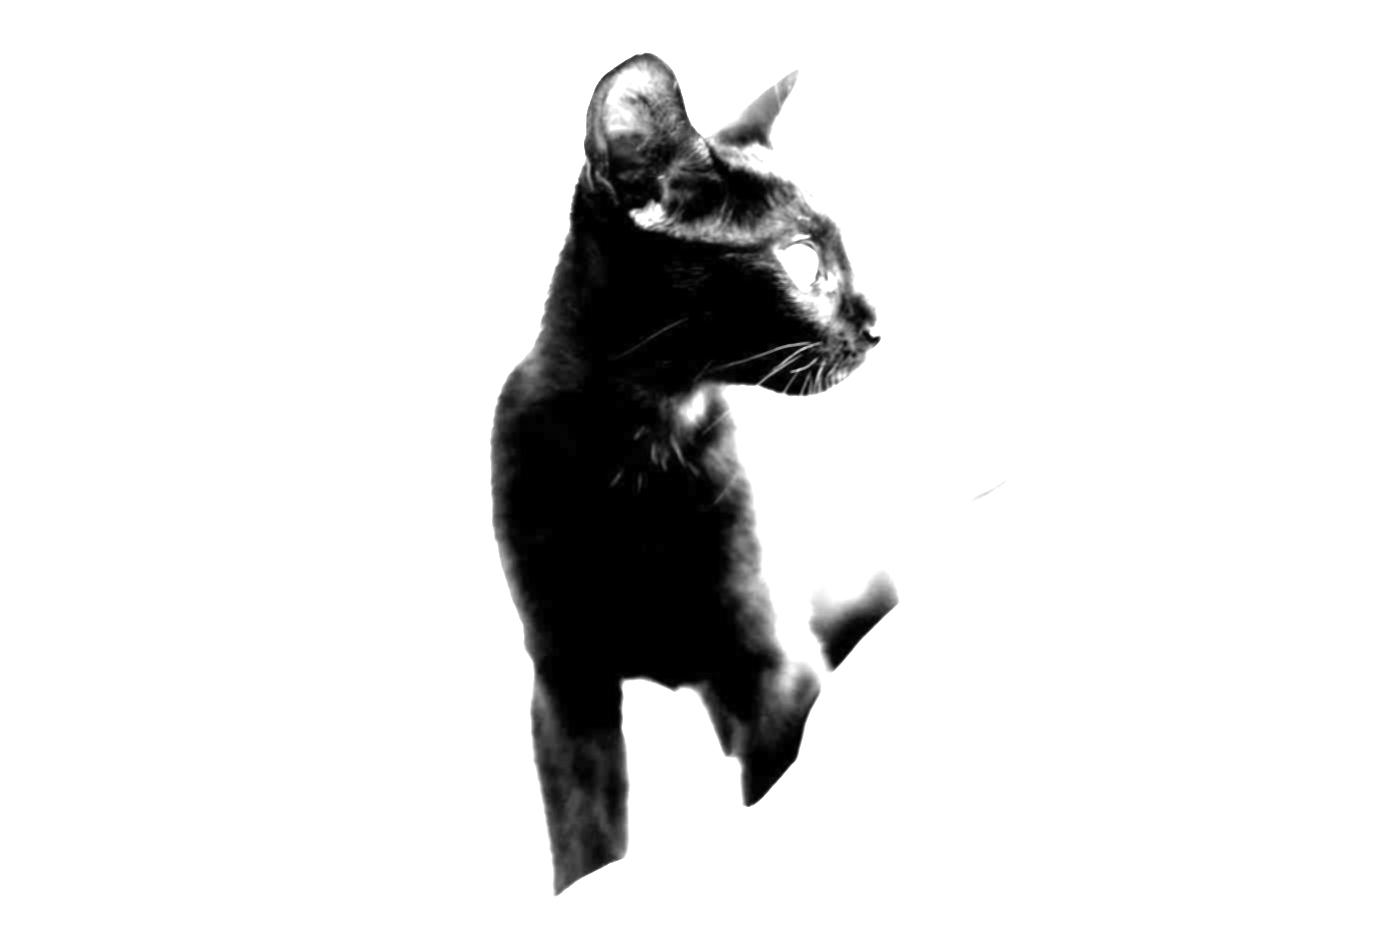
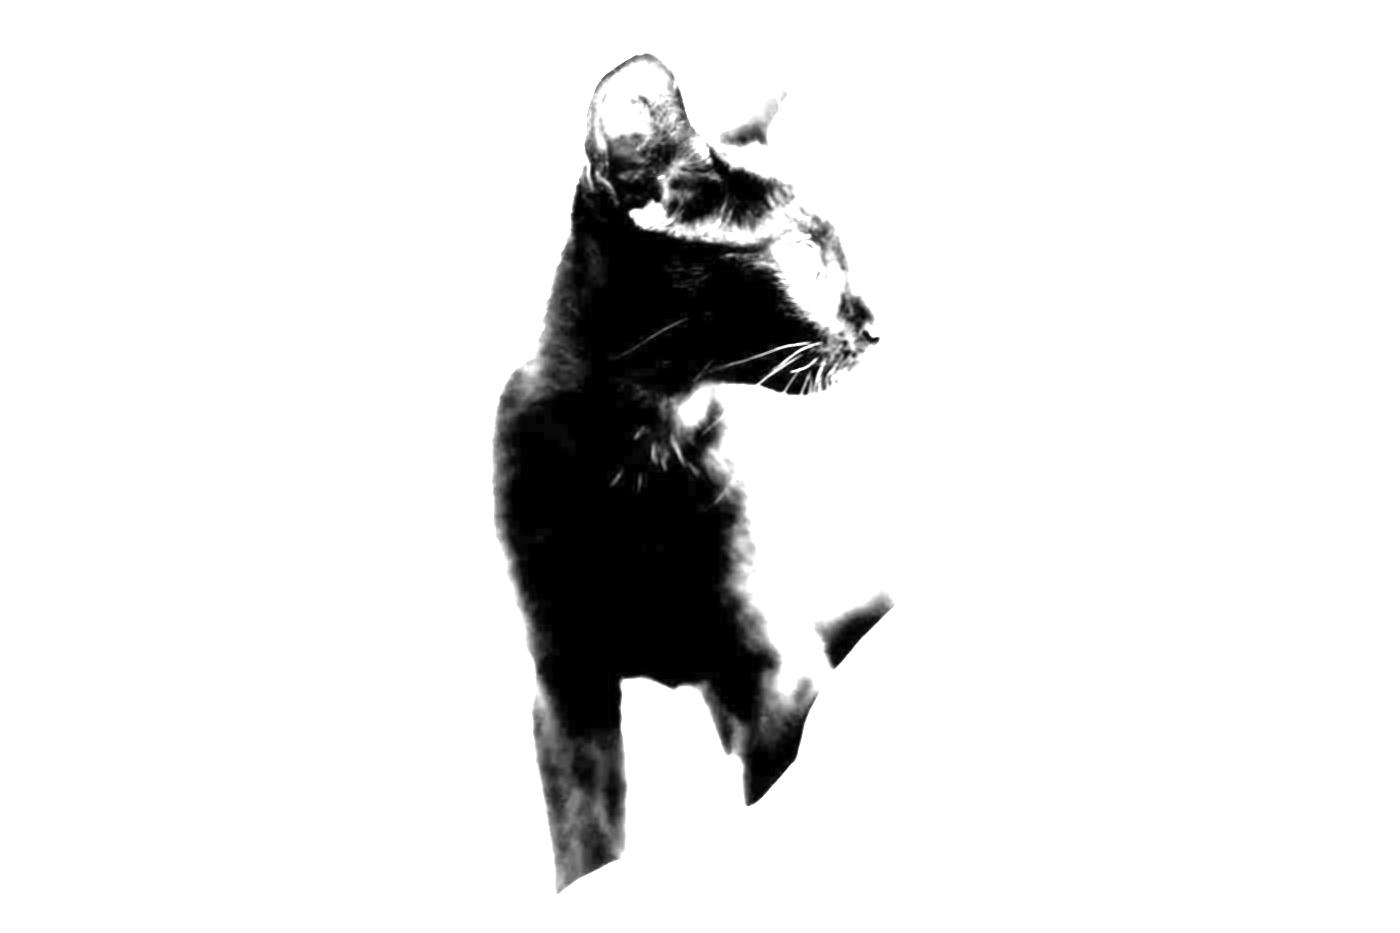
Applying edge filter

Changed region(s): [[0.3993, 0.0622, 0.645, 0.8703], [0.3379, 0.2487, 0.4607, 0.9636]]

diff --git a/image_processing/kernels_and_fft/src/main.rs b/image_processing/kernels_and_fft/src/main.rs
@@ -8,6 +8,7 @@ mod padding;
 mod convolve;
 
 use image::{GenericImageView, GrayImage};
+use crate::convolve::conv_2d;
 use crate::kernel::{Kernel, KernelConstructors};
 use crate::padding::reflection_pad;
 
@@ -144,9 +145,13 @@ fn main() -> std::result::Result<(), Error> {
     let new_width = padded_img[0].len() as u32;
     save_img(new_width, new_height, "cat_gray_padded.jpg", &padded_img)?;
 
-    let kernel = Kernel::blur(2.0);
-    let convolved_img = convolve::conv_2d(&img, &kernel);
-    save_img(width, height, "cat_gray_blurred.jpg", &convolved_img)?;
+    let kernel = Kernel::blur(1.15);
+    let blurred_img = conv_2d(&img, &kernel);
+    save_img(width, height, "cat_gray_blurred.jpg", &blurred_img)?;
+
+    let edge_kernel = Kernel::edge_all();
+    let edge_img = conv_2d(&blurred_img, &edge_kernel);
+    save_img(width, height, "cat_gray_blurred_edges.jpg", &edge_img)?;
     return Ok(());
 
 }
